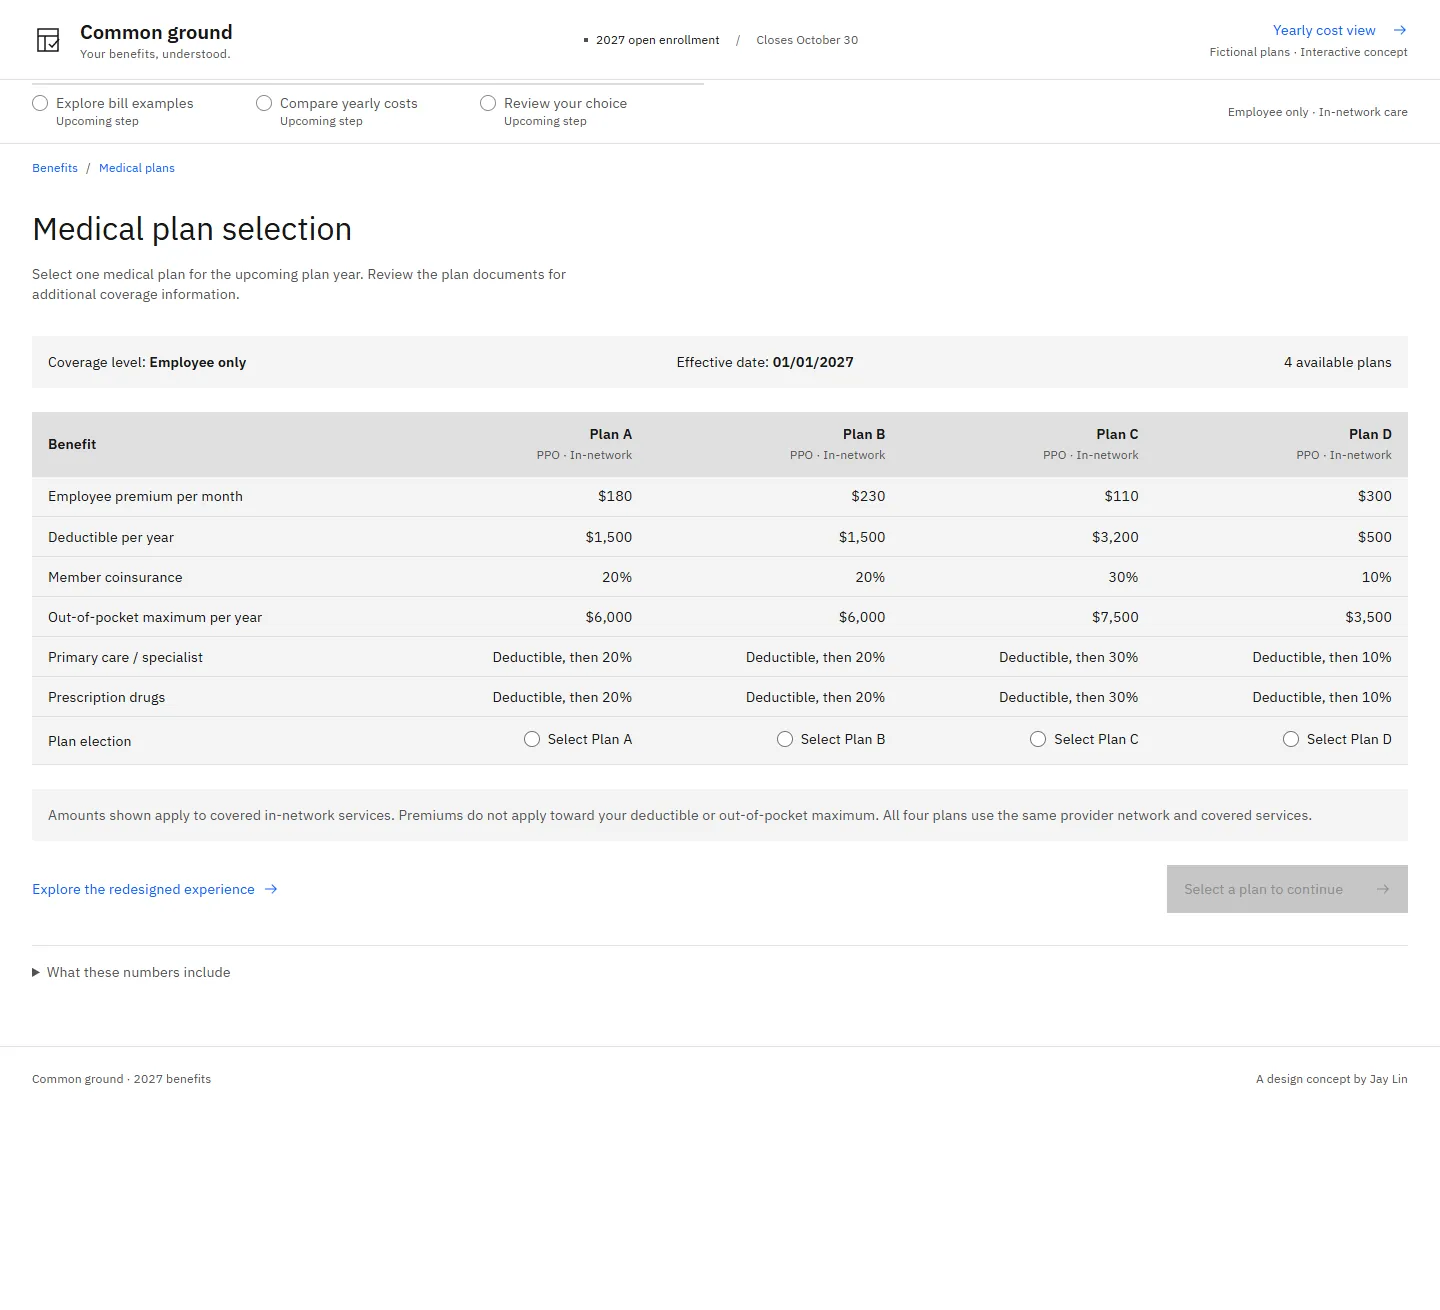
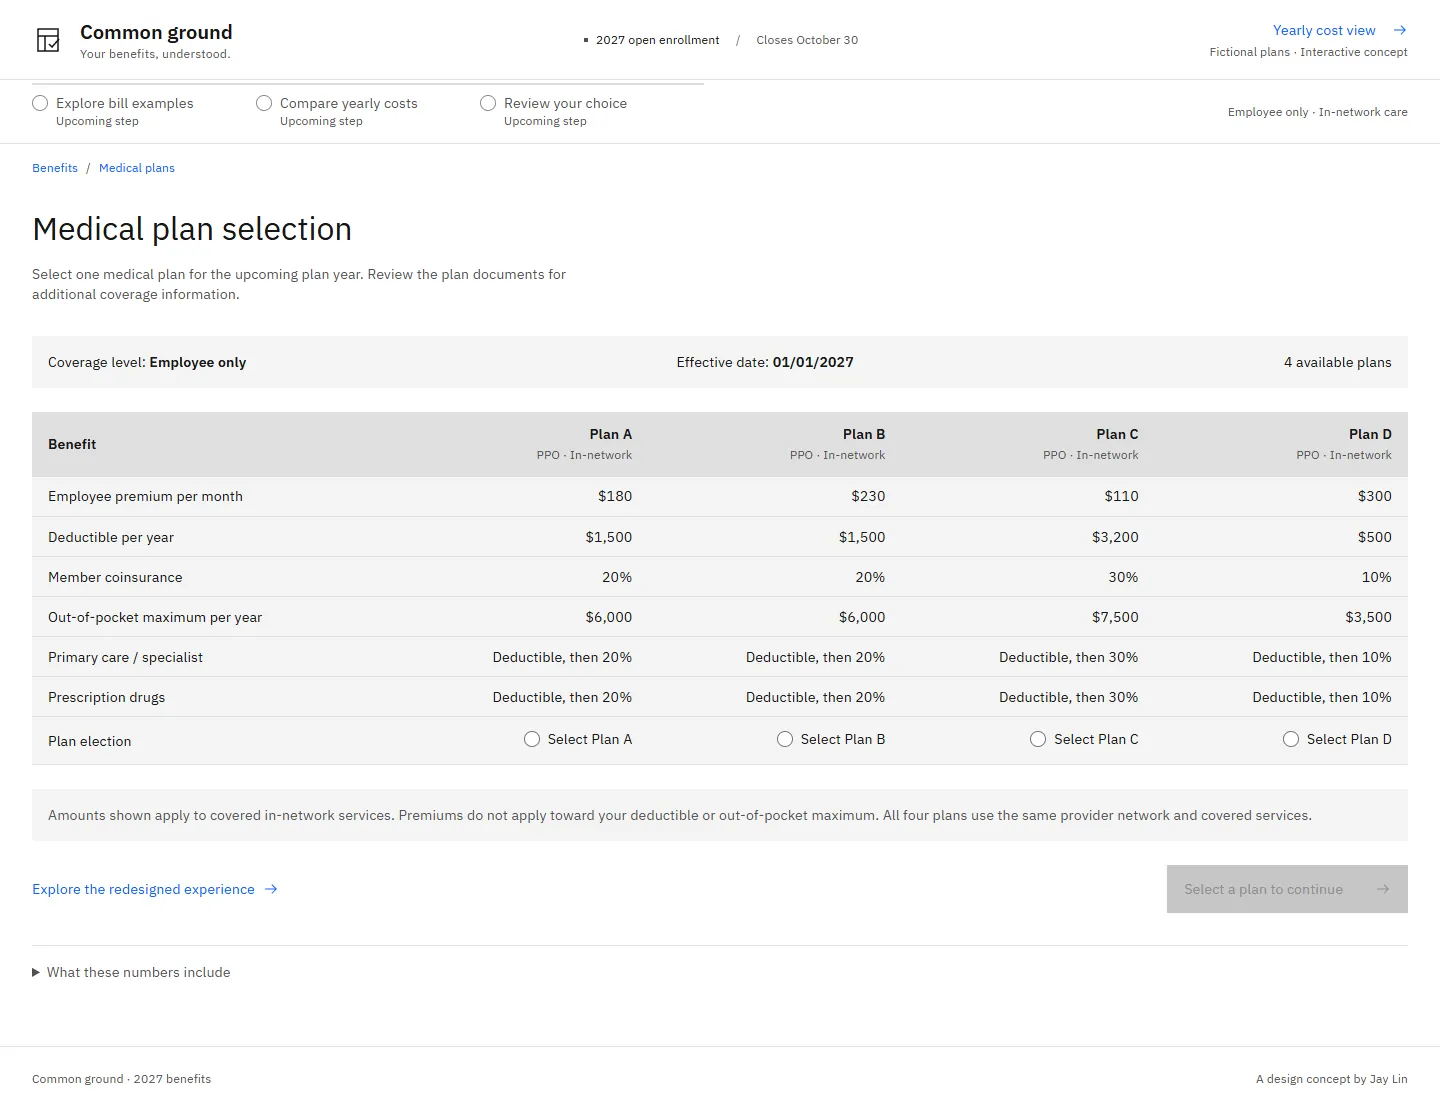
Crop the D4 portal comparison to the baseline page's own height
The portal pair used the round pair's 1310 px crop, so the benefits table
ended in a band of blank paper. It now compares the first 1119 px of both
pages; the round 1 vs round 2 pair keeps 1310 px for both cost notes.

diff --git a/app/src/product/cases/ChooseNotToLoseCase.jsx b/app/src/product/cases/ChooseNotToLoseCase.jsx
@@ -88,8 +88,8 @@ const DECISIONS = [
 
 const R = `${A}rounds/`;
 const PAIRS = [
-  {id: 'portal', tab: 'Portal → yearly view', caption: 'The same four fictional plans. Left: the benefits table most portals show. Right: the yearly view, premiums and covered care on one axis.',
-    before: {src: `${R}portal.webp`, label: 'Benefits portal'}, after: {src: `${R}compare-r2.webp`, label: 'Yearly view'}},
+  {id: 'portal', tab: 'Portal → yearly view', ratio: '1440 / 1119', size: [1440, 1119], caption: 'The same four fictional plans. Left: the benefits table most portals show. Right: the yearly view, premiums and covered care on one axis.',
+    before: {src: `${R}portal.webp`, label: 'Benefits portal'}, after: {src: `${R}compare-portal.webp`, label: 'Yearly view'}},
   {id: 'rounds', tab: 'Round 1 → Round 2', caption: 'The comparison in both rounds: bill amounts instead of scenario names, a blue note instead of a red error, and no plan preselected.',
     before: {src: `${R}compare-r1.webp`, label: 'Round 1'}, after: {src: `${R}compare-r2.webp`, label: 'Round 2'}},
 ];
